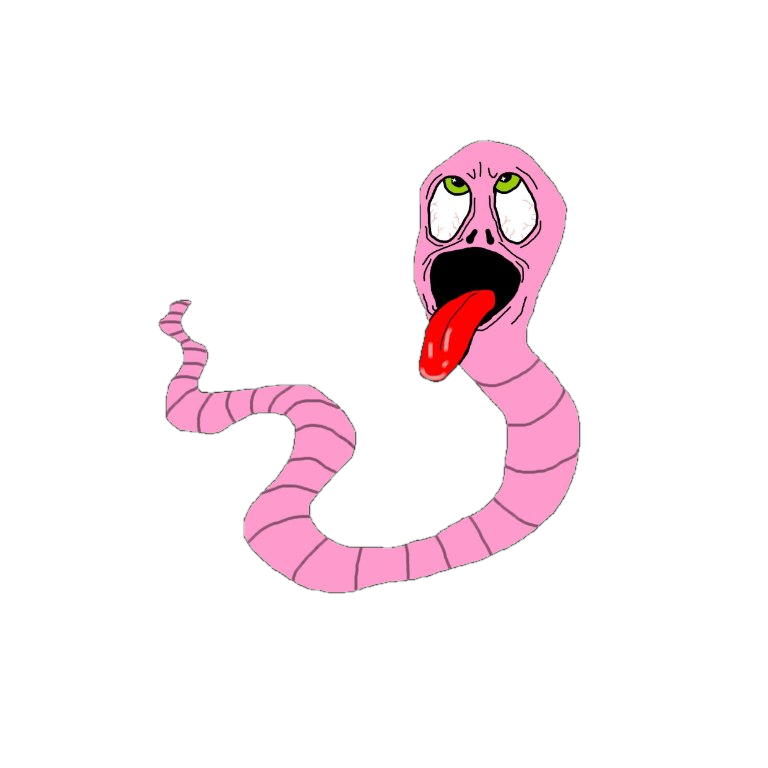
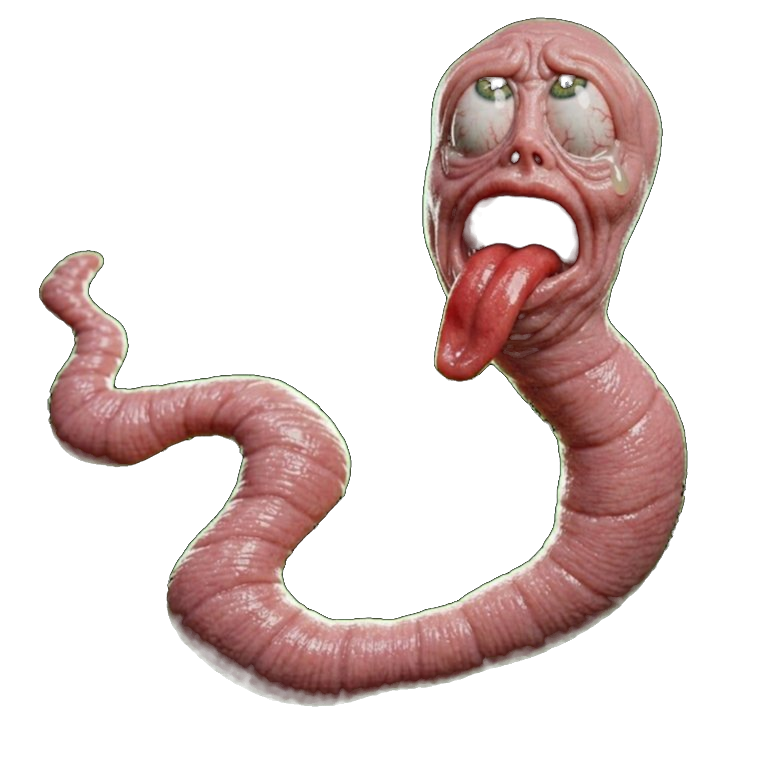
Pochette Putain de sa Race, fosse -> égout, Ver: rendu comme image et effet

diff --git a/mode-putride-discographie.html b/mode-putride-discographie.html
@@ -48,7 +48,7 @@
   <li class="al"><button class="alb" type="button" aria-expanded="false" aria-controls="ap14"><img src="images/retard-tinables/le-retour-de-la-couche.jpg" alt="Pochette Le Retour de la Couche" loading="lazy"><span class="at"><b>Le Retour de la Couche</b><span class="d">2018 · 7 titres</span></span><span class="chev" aria-hidden="true">▾</span></button><div class="apanel" id="ap14" hidden><ol class="trk"><li><span>Durs avec Christophe - Intro</span><em>1:39</em></li><li><span>Oh oui je te respecte...</span><em>4:50</em></li><li><span>Je suis mouillé...</span><em>2:51</em></li><li><span>Paycho</span><em>2:25</em></li><li><span>Musiquedebeauf.mp3 (Remix par Jean-Casimir37)</span><em>3:42</em></li><li><span>Un rêve, tout simplement.</span><em>3:34</em></li><li><span>Je m&#x27;extase sur toi...</span><em>4:08</em></li></ol><div class="acts"><button class="btn play" type="button" data-sc="https://soundcloud.com/puanteurputride/sets/le-retour-de-la-couche" data-h="380" data-t="Le Retour de la Couche">▶ ÉCOUTER</button><a class="btn" href="https://soundcloud.com/puanteurputride/sets/le-retour-de-la-couche" rel="noopener" target="_blank">SOUNDCLOUD</a></div></div></li>
   <li class="al"><button class="alb" type="button" aria-expanded="false" aria-controls="ap15"><img src="images/retard-tinables/mais-si-quest-vrai.jpg" alt="Pochette Mais si qu&#x27;est vrai" loading="lazy"><span class="at"><b>Mais si qu&#x27;est vrai</b><span class="d">2018 · single · 1 titre</span></span><span class="chev" aria-hidden="true">▾</span></button><div class="apanel" id="ap15" hidden><ol class="trk"><li><span>Ça déconne !</span><em>3:19</em></li></ol><div class="acts"><button class="btn play" type="button" data-sc="https://soundcloud.com/puanteurputride/sets/mais-si-qucest-vrai" data-h="380" data-t="Mais si qu'est vrai">▶ ÉCOUTER</button><a class="btn" href="https://soundcloud.com/puanteurputride/sets/mais-si-qucest-vrai" rel="noopener" target="_blank">SOUNDCLOUD</a></div></div></li>
   <li class="al"><button class="alb" type="button" aria-expanded="false" aria-controls="ap16"><img src="images/retard-tinables/connasse.jpg" alt="Pochette Connasse" loading="lazy"><span class="at"><b>Connasse</b><span class="d">2018 · EP · 2 titres</span></span><span class="chev" aria-hidden="true">▾</span></button><div class="apanel" id="ap16" hidden><ol class="trk"><li><span>À ma demande.</span><em>2:09</em></li><li><span>PLS by Christophe (remake de À ma demande)</span><em>1:29</em></li></ol><div class="acts"><button class="btn play" type="button" data-sc="https://soundcloud.com/puanteurputride/sets/connasse" data-h="380" data-t="Connasse">▶ ÉCOUTER</button><a class="btn" href="https://soundcloud.com/puanteurputride/sets/connasse" rel="noopener" target="_blank">SOUNDCLOUD</a></div></div></li>
-  <li class="al"><button class="alb" type="button" aria-expanded="false" aria-controls="ap17"><span class="phs">Putain de sa Race</span><span class="at"><b>Putain de sa Race</b><span class="d">2018 · single · 1 titre</span></span><span class="chev" aria-hidden="true">▾</span></button><div class="apanel" id="ap17" hidden><ol class="trk"><li><span>Putain de sa Race</span><em>1:43</em></li></ol><div class="acts"><button class="btn play" type="button" data-sc="https://soundcloud.com/puanteurputride/putain-de-sa-race-2018" data-h="166" data-t="Putain de sa Race">▶ ÉCOUTER</button><a class="btn" href="https://soundcloud.com/puanteurputride/putain-de-sa-race-2018" rel="noopener" target="_blank">SOUNDCLOUD</a></div></div></li>
+  <li class="al"><button class="alb" type="button" aria-expanded="false" aria-controls="ap17"><img class="tint" src="images/pochette-putain-de-sa-race.jpg" alt="Pochette Putain de sa Race" loading="lazy"><span class="at"><b>Putain de sa Race</b><span class="d">2018 · single · 1 titre</span></span><span class="chev" aria-hidden="true">▾</span></button><div class="apanel" id="ap17" hidden><ol class="trk"><li><span>Putain de sa Race</span><em>1:43</em></li></ol><div class="acts"><button class="btn play" type="button" data-sc="https://soundcloud.com/puanteurputride/putain-de-sa-race-2018" data-h="166" data-t="Putain de sa Race">▶ ÉCOUTER</button><a class="btn" href="https://soundcloud.com/puanteurputride/putain-de-sa-race-2018" rel="noopener" target="_blank">SOUNDCLOUD</a></div></div></li>
   <li class="al"><button class="alb" type="button" aria-expanded="false" aria-controls="ap18"><img src="images/retard-tinables/oh-non-je-fais-appel.jpg" alt="Pochette Oh non je fais appel !" loading="lazy"><span class="at"><b>Oh non je fais appel !</b><span class="d">2017 · single · 1 titre</span></span><span class="chev" aria-hidden="true">▾</span></button><div class="apanel" id="ap18" hidden><ol class="trk"><li><span>Oh non je fais appel !</span><em>3:29</em></li></ol><div class="acts"><button class="btn play" type="button" data-sc="https://soundcloud.com/puanteurputride/oh-non-je-fais-appel" data-h="166" data-t="Oh non je fais appel !">▶ ÉCOUTER</button><a class="btn" href="https://soundcloud.com/puanteurputride/oh-non-je-fais-appel" rel="noopener" target="_blank">SOUNDCLOUD</a></div></div></li>
   <li class="al"><button class="alb" type="button" aria-expanded="false" aria-controls="ap19"><img src="images/retard-tinables/oh-non-herve.jpg" alt="Pochette Oh non Hervé" loading="lazy"><span class="at"><b>Oh non Hervé</b><span class="d">2017 · 6 titres</span><span class="tags"><i class="tg c">▶ CLIP</i></span></span><span class="chev" aria-hidden="true">▾</span></button><div class="apanel" id="ap19" hidden><ol class="trk"><li><span>Camisole - Ode à Juliette</span><em>1:46</em></li><li><span>Assel est demandé.</span><em>1:32</em></li><li><span>Cachot cachot !</span><em>1:27</em></li><li><span>Ooooooh !</span><em>1:32</em></li><li><span>Camisole (Christophe Chevanne Cover)</span><em>3:20</em></li><li><span>Je suis le juge.</span><em>3:06</em></li></ol><div class="acts"><button class="btn play" type="button" data-sc="https://soundcloud.com/puanteurputride/sets/oh-non-herve" data-h="380" data-t="Oh non Hervé">▶ ÉCOUTER</button><a class="btn" href="https://soundcloud.com/puanteurputride/sets/oh-non-herve" rel="noopener" target="_blank">SOUNDCLOUD</a><button class="btn yt" type="button" data-yt="CEokRJYAFE4" data-t="Album Oh non Hervé en entier">▶ ALBUM EN VIDÉO · 12:44</button></div></div></li>
   <li class="al"><button class="alb" type="button" aria-expanded="false" aria-controls="ap20"><img src="images/retard-tinables/mets-la-cam.jpg" alt="Pochette Mets la cam" loading="lazy"><span class="at"><b>Mets la cam</b><span class="d">2017 · 5 titres</span></span><span class="chev" aria-hidden="true">▾</span></button><div class="apanel" id="ap20" hidden><ol class="trk"><li><span>J&#x27;te connais pas hein</span><em>1:13</em></li><li><span>Bah mets la cam Hervé !</span><em>1:58</em></li><li><span>Testicule</span><em>4:10</em></li><li><span>Jean-Marie tu déconnes là ?</span><em>1:54</em></li><li><span>J&#x27;me suis mis trop bien !</span><em>2:32</em></li></ol><div class="acts"><button class="btn play" type="button" data-sc="https://soundcloud.com/puanteurputride/sets/mets-la-cam" data-h="380" data-t="Mets la cam">▶ ÉCOUTER</button><a class="btn" href="https://soundcloud.com/puanteurputride/sets/mets-la-cam" rel="noopener" target="_blank">SOUNDCLOUD</a></div></div></li>

diff --git a/mode-putride-bestiaire.html b/mode-putride-bestiaire.html
@@ -30,14 +30,14 @@
 <main>
 <p class="kicker">MODE PUTRIDE · BESTIAIRE</p>
   <h1>Bestiaire</h1>
-  <p>Personnages, figures et incarnations de la fosse.</p>
+  <p>Personnages, figures et incarnations de l'égout.</p>
   <ul class="perso">
     <li><a href="mode-putride-personnage-createur.html"><span class="pf fx fx-cre" tabindex="0" role="img" aria-label="La Créature du Marais"><img class="bgz vio" src="images/creature.jpg" alt="" loading="lazy"><img class="aur" src="images/putride/creature-aura.png" alt="" loading="lazy"><img class="fgz vio" src="images/putride/creature-decoupe.png" alt="" loading="lazy"></span><b>La Créature</b></a></li>
     <li><a href="mode-putride-personnage-edwarda.html"><span class="pf fx fx-edw" tabindex="0" role="img" aria-label="Madame Edwarda"><img class="bgz" src="images/putride/madame-edwarda.jpg" alt="" loading="lazy"><img class="fgz" src="images/putride/madame-edwarda.jpg" alt="" loading="lazy"><i class="fxl"></i><i class="em" style="left:20%;--dx:1.2rem;animation-delay:-0.37s"></i><i class="em" style="left:32%;--dx:-1.8rem;animation-delay:-0.74s"></i><i class="em" style="left:44%;--dx:0.6rem;animation-delay:-1.11s"></i><i class="em" style="left:56%;--dx:-1.2rem;animation-delay:-1.48s"></i><i class="em" style="left:68%;--dx:1.8rem;animation-delay:-1.85s"></i><i class="em" style="left:80%;--dx:-0.6rem;animation-delay:-2.22s"></i><i class="em" style="left:92%;--dx:1.2rem;animation-delay:-2.59s"></i></span><b>Madame Edwarda</b></a></li>
     <li><a href="mode-putride-personnage-ephebus.html"><span class="pf eph"><span class="halo"></span><span class="stage"><img class="wing wl" src="images/putride/ephebus-aile-g.png" alt=""><img class="wing wr" src="images/putride/ephebus-aile-d.png" alt=""><img class="body" src="images/putride/ephebus-corps.png" alt="Éphébus Hitler"><span class="sheen"></span><i class="eye e1"></i><i class="eye e2"></i></span></span><b>Éphébus Hitler</b></a></li>
     <li><a href="mode-putride-personnage-ephebelle.html"><span class="pf fx fx-ebl" tabindex="0" role="img" aria-label="Éphébelle"><img class="bgz" src="images/putride/ephebelle-profil.jpg" alt="" loading="lazy"><i class="hr" style="--x:31.3%;--s:1.35rem;--c:#ff7aa8;--d:3.1s;--w:-0.29s;--dx:1.8rem;--r:20deg">&#9829;</i><i class="hr" style="--x:36.6%;--s:1.8rem;--c:#e01040;--d:3.6s;--w:-0.58s;--dx:-2.8rem;--r:-28deg">&#9829;</i><i class="hr" style="--x:41.9%;--s:2.25rem;--c:#ff9ec0;--d:2.6s;--w:-0.87s;--dx:3.8rem;--r:12deg">&#9829;</i><i class="hr" style="--x:47.2%;--s:0.9rem;--c:#ff4d6d;--d:3.1s;--w:-1.16s;--dx:-0.8rem;--r:-20deg">&#9829;</i><i class="hr" style="--x:52.5%;--s:1.35rem;--c:#ff2a55;--d:3.6s;--w:-1.45s;--dx:1.8rem;--r:28deg">&#9829;</i><i class="hr" style="--x:57.8%;--s:1.8rem;--c:#ff7aa8;--d:2.6s;--w:-1.74s;--dx:-2.8rem;--r:-12deg">&#9829;</i><i class="hr" style="--x:63.1%;--s:2.25rem;--c:#e01040;--d:3.1s;--w:-2.03s;--dx:3.8rem;--r:20deg">&#9829;</i><i class="hr" style="--x:68.4%;--s:0.9rem;--c:#ff9ec0;--d:3.6s;--w:-2.32s;--dx:-0.8rem;--r:-28deg">&#9829;</i><i class="hr" style="--x:29.7%;--s:1.35rem;--c:#ff4d6d;--d:2.6s;--w:-2.61s;--dx:1.8rem;--r:12deg">&#9829;</i><i class="hr" style="--x:35%;--s:1.8rem;--c:#ff2a55;--d:3.1s;--w:-2.9s;--dx:-2.8rem;--r:-20deg">&#9829;</i><i class="hr" style="--x:40.3%;--s:2.25rem;--c:#ff7aa8;--d:3.6s;--w:-3.19s;--dx:3.8rem;--r:28deg">&#9829;</i><img class="fgz" src="images/putride/ephebelle-profil.jpg" alt="" loading="lazy"></span><b>Éphébelle</b></a></li>
     <li><a href="mode-putride-personnage-ephebito.html"><span class="pf fx fx-ito" tabindex="0" role="img" aria-label="Éphébito"><span class="stg"><img src="images/putride/ephebito.jpg" alt="" loading="lazy"></span></span><b>Éphébito</b></a></li>
-    <li><a href="mode-putride-personnage-ver.html"><span class="pf fx fx-ver" tabindex="0" role="img" aria-label="Le Ver du baptistère"><span class="stg"><img src="images/putride/ver-panneau.jpg" alt="" loading="lazy"><img class="aur" src="images/putride/ver-aura.png" alt="" loading="lazy"><img class="cut" src="images/putride/ver-decoupe.png" alt="" loading="lazy"><i class="gout"></i><i class="splat"></i></span></span><b>Le Ver du baptistère</b></a></li>
+    <li><a href="mode-putride-personnage-ver.html"><span class="pf fx fx-ver" tabindex="0" role="img" aria-label="Le Ver du baptistère"><span class="stg"><img class="aur" src="images/putride/ver-aura.png" alt="" loading="lazy"><img class="cut" src="images/putride/ver-decoupe.png" alt="" loading="lazy"><i class="gout"></i><i class="splat"></i></span></span><b>Le Ver du baptistère</b></a></li>
   </ul>
 </main>
 <footer class="pfoot"><img alt="La Créature du Marais — Cul-Pointu" class="sf-t" src="images/pied-titre.png"><p class="sf-c">© MMXXVI</p><a class="pup" href="index.html" data-slime="up" aria-label="Remonter à la surface : retour au site normal"><svg viewBox="0 0 64 64" aria-hidden="true"><rect x="8" y="10" width="48" height="44"/><path d="M8 32h48M32 10v44"/><circle cx="26" cy="32" r="2"/><circle cx="38" cy="32" r="2"/></svg><span>↑ REMONTER À LA SURFACE</span></a></footer>

diff --git a/putride.css b/putride.css
@@ -347,13 +347,13 @@ main{position:relative}
 @keyframes heart{0%{transform:translate(0,0) scale(.3) rotate(0);opacity:0}12%{opacity:.95}100%{transform:translate(var(--dx),-14rem) scale(1.1) rotate(var(--r));opacity:0}}
 
 /* Le Ver : goutte qui s'écrase, zoom lent */
-.fx-ver .stg{position:absolute;inset:0;transform-origin:56% 47%;transition:transform 9s cubic-bezier(.25,.1,.3,1)}
+.fx-ver .stg{position:absolute;inset:0;transform-origin:60% 46%;transition:transform 9s cubic-bezier(.25,.1,.3,1)}
 :is(.fx:hover,.fx.on,.fx:focus-visible,.perso a:hover .fx,.perso a:focus-visible .fx,.perso a:active .fx).fx-ver .stg{transform:scale(2)}
-.fx-ver .gout{position:absolute;left:56.4%;top:48.5%;width:2.4%;aspect-ratio:1/1.35;border-radius:50% 50% 50% 50%/35% 35% 65% 65%;background:radial-gradient(circle at 35% 30%,#d4f58a,#6fc230 55%,#2c7a1c);box-shadow:0 0 .2rem rgba(10,46,14,.8);transform:translate(-50%,0) scale(0);transform-origin:50% 0;opacity:0}
-.fx-ver .splat{position:absolute;left:56.4%;top:76%;width:8%;aspect-ratio:2.2/1;border-radius:50%;background:radial-gradient(ellipse,#8fe04a 0 40%,#3e9a22 62%,transparent 70%);transform:translate(-50%,-50%) scale(0);opacity:0}
+.fx-ver .gout{position:absolute;left:59.3%;top:49%;width:2.4%;aspect-ratio:1/1.35;border-radius:50% 50% 50% 50%/35% 35% 65% 65%;background:radial-gradient(circle at 35% 30%,#d4f58a,#6fc230 55%,#2c7a1c);box-shadow:0 0 .2rem rgba(10,46,14,.8);transform:translate(-50%,0) scale(0);transform-origin:50% 0;opacity:0}
+.fx-ver .splat{position:absolute;left:59.3%;top:86%;width:8%;aspect-ratio:2.2/1;border-radius:50%;background:radial-gradient(ellipse,#8fe04a 0 40%,#3e9a22 62%,transparent 70%);transform:translate(-50%,-50%) scale(0);opacity:0}
 :is(.fx:hover,.fx.on,.fx:focus-visible,.perso a:hover .fx,.perso a:focus-visible .fx,.perso a:active .fx).fx-ver .gout{animation:dgo 3.4s ease-in infinite}
 :is(.fx:hover,.fx.on,.fx:focus-visible,.perso a:hover .fx,.perso a:focus-visible .fx,.perso a:active .fx).fx-ver .splat{animation:dsp 3.4s ease-out infinite}
-@keyframes dgo{0%{top:48.5%;opacity:1;transform:translate(-50%,0) scale(.1)}22%{top:48.8%;transform:translate(-50%,0) scale(1,1.1)}38%{top:50%;transform:translate(-50%,0) scale(.95,1.7)}68%{top:75%;opacity:1;transform:translate(-50%,0) scale(.8,1.5)}70%,100%{top:76%;opacity:0;transform:translate(-50%,0) scale(.5)}}
+@keyframes dgo{0%{top:49%;opacity:1;transform:translate(-50%,0) scale(.1)}22%{top:49.3%;transform:translate(-50%,0) scale(1,1.1)}38%{top:51%;transform:translate(-50%,0) scale(.95,1.7)}68%{top:85%;opacity:1;transform:translate(-50%,0) scale(.8,1.5)}70%,100%{top:86%;opacity:0;transform:translate(-50%,0) scale(.5)}}
 @keyframes dsp{0%,67%{opacity:0;transform:translate(-50%,-50%) scale(0)}70%{opacity:1;transform:translate(-50%,-50%) scale(.4)}90%{opacity:.85;transform:translate(-50%,-50%) scale(1.5,.8)}100%{opacity:0;transform:translate(-50%,-50%) scale(1.9,.8)}}
 
 /* Éphébito : pendule */
@@ -363,7 +363,7 @@ main{position:relative}
 .fx-ver{cursor:default}.fx-ito{cursor:default}
 .fx-ver .stg img,.fx-ito .stg img{object-fit:contain}
 .fx-ver .stg img{position:absolute;inset:0;width:100%;height:100%}
-.fx-ver .aur{object-fit:contain;transform:none;clip-path:inset(14.5% 0 18% 0)}
+.fx-ver .aur{object-fit:contain;transform:none}
 :is(.fx:hover,.fx.on,.fx:focus-visible,.perso a:hover .fx,.perso a:focus-visible .fx,.perso a:active .fx).fx-ver .aur{opacity:1;animation:vaura 3.6s ease-in-out infinite}
 @keyframes vaura{0%,100%{opacity:.85}50%{opacity:1}}
 

diff --git a/mode-putride.html b/mode-putride.html
@@ -29,7 +29,7 @@
 
 <main>
 <p class="kicker">MODE PUTRIDE</p>
-  <h1>Sous le pavé, la fosse</h1>
+  <h1>Sous le pavé, l'égout</h1>
   <p class="lead-title">La Créature du Marais</p>
   <p>Personne ne vous a poussé : la trappe était là, vous avez appuyé. Les rubriques d'en haut ont ici leur double, moins fréquentable. Respirez par la bouche, touchez à tout, et quand l'odeur deviendra trop forte, l'échelle est juste dessous.</p>
   <p><a class="btn" href="index.html" id="up" data-slime="up">↑ REMONTER À LA SURFACE</a></p>
@@ -46,9 +46,9 @@
   <p>Proposition : une <b>trappe</b> dans le pied de page du site propre, à côté du © MMXXVI. Un seul geste, sans menu ni réglage. Essaie-la ci-dessous (simulation).</p>
   <div class="mockfoot">
     <span>© MMXXVI · La Créature du Marais — Cul-Pointu</span>
-    <button class="trap" id="trap" type="button" aria-label="Entrer dans la fosse : activer le mode putride">
+    <button class="trap" id="trap" type="button" aria-label="Entrer dans l'égout : activer le mode putride">
       <svg viewBox="0 0 64 64" aria-hidden="true"><rect x="8" y="10" width="48" height="44"/><path d="M8 32h48M32 10v44"/><circle cx="26" cy="32" r="2"/><circle cx="38" cy="32" r="2"/></svg>
-      <span>ENTRER DANS LA FOSSE</span>
+      <span>ENTRER DANS L'ÉGOUT</span>
     </button>
   </div>
   <p class="note">À l'activation : une coulée de slime vert, avec quelques surprises brunes, balaie l'écran de haut en bas, puis les couleurs, l'en-tête et le bandeau basculent. Le choix serait mémorisé (localStorage), et « ↑ Remonter à la surface » ramène au site propre par la coulée inverse.</p>

diff --git a/mode-putride-personnage-createur.html b/mode-putride-personnage-createur.html
@@ -33,7 +33,7 @@
   <div class="fiche2"><div><span class="pf fx fx-cre" tabindex="0" role="img" aria-label="La Créature du Marais en long manteau noir, lunettes rondes et lance"><img class="bgz vio" src="images/creature.jpg" alt="" loading="lazy"><img class="aur" src="images/putride/creature-aura.png" alt="" loading="lazy"><img class="fgz vio" src="images/putride/creature-decoupe.png" alt="" loading="lazy"></span></div><div>
   <h1>La Créature du Marais</h1>
   <p class="role">TANCRÈDE CHARON · CUL-POINTU · ROUEN</p>
-  <p>Chanteur, compositeur et metteur en scène de ses propres clips, il officie sous la bannière de PUANTEUR PUTRIDE Productions. À la surface, le rouge de la veste côtelée ; ici, la fosse l'a teinté de violet et le fluide vert le ronge de l'intérieur.</p>
+  <p>Chanteur, compositeur et metteur en scène de ses propres clips, il officie sous la bannière de PUANTEUR PUTRIDE Productions. À la surface, le rouge de la veste côtelée ; ici, l'égout l'a teinté de violet et le fluide vert le ronge de l'intérieur.</p>
   <p>Son genre officiel : l'<b>opéra gothique électronique catholique traditionnel</b>, carnavalesque et grotesque, sur un Moyen Âge 2 dont le brun est la couleur de prédilection.</p>
   <dl>
     <dt>ATTRIBUTS</dt><dd>velours noir de la tête aux panards, cape noire, canne-épée, lunettes rondes noires, micro, synthétiseur Korg Modwave, armes médiévales, lait cru et odeur pestilentielle</dd>

diff --git a/mode-putride-personnage-ver.html b/mode-putride-personnage-ver.html
@@ -30,7 +30,7 @@
 <main>
 <p class="kicker">MODE PUTRIDE · BESTIAIRE</p>
   <p class="back"><a class="btn" href="mode-putride-bestiaire.html">← BESTIAIRE</a></p>
-  <div class="fiche2"><div><span class="pf fx fx-ver" tabindex="0" role="img" aria-label="Panneau : Prenez garde au ver du baptistère"><span class="stg"><img src="images/putride/ver-panneau.jpg" alt="" loading="lazy"><img class="aur" src="images/putride/ver-aura.png" alt="" loading="lazy"><img class="cut" src="images/putride/ver-decoupe.png" alt="" loading="lazy"><i class="gout"></i><i class="splat"></i></span></span></div><div>
+  <div class="fiche2"><div><span class="pf fx fx-ver" tabindex="0" role="img" aria-label="Le ver du baptistère, en rendu"><span class="stg"><img class="aur" src="images/putride/ver-aura.png" alt="" loading="lazy"><img class="cut" src="images/putride/ver-decoupe.png" alt="" loading="lazy"><i class="gout"></i><i class="splat"></i></span></span></div><div>
   <h1>Le Ver du baptistère</h1>
   <p class="role">PRENEZ GARDE</p>
   <p>Il y a un réseau de baptistères et le ver en est maître. Il se repaît de snuff movies scato et hante le <a class="lk" href="mode-putride-territoire.html#vampirium">Vampirium</a>.</p>

diff --git a/putride.js b/putride.js
@@ -68,7 +68,7 @@
   }
   function mkbar(){
     if(pb)return;
-    pb=document.createElement('div');pb.id='pbar';pb.setAttribute('role','region');pb.setAttribute('aria-label','Lecteur de la fosse');
+    pb=document.createElement('div');pb.id='pbar';pb.setAttribute('role','region');pb.setAttribute('aria-label','Lecteur de l'égout');
     pb.innerHTML='<div class="pb-drip" aria-hidden="true"></div>'
       +'<div class="pb-main">'
       +'<img class="pb-art" alt="" width="56" height="56">'
@@ -334,7 +334,7 @@
       o.textContent='';
       if(v.length<2){o.classList.remove('on');return;}
       var R=find(v);
-      if(!R.length){var n=document.createElement('div');n.className='sn';n.textContent='Rien dans la fosse';o.appendChild(n);}
+      if(!R.length){var n=document.createElement('div');n.className='sn';n.textContent='Rien dans l'égout';o.appendChild(n);}
       R.forEach(function(r){
         var a=document.createElement('a');a.href=r.h;var b=document.createElement('b');b.textContent=r.t;a.appendChild(b);
         var s=r.sn?(r.k?r.k+' — ':'')+r.sn:r.k;

diff --git a/index.html b/index.html
@@ -926,7 +926,7 @@ mp.addEventListener("keydown",function(e){if(e.key==="Escape"){closeM();sb.focus
 <footer class="sf">
 <img alt="La Créature du Marais — Cul-Pointu" class="sf-t" src="images/pied-titre.png"/>
 <p class="sf-c">© MMXXVI</p>
-<a class="sf-trap" href="mode-putride.html" data-slime="down" aria-label="Entrer dans la fosse : mode putride"><svg viewBox="0 0 64 64" aria-hidden="true"><rect x="8" y="10" width="48" height="44"/><path d="M8 32h48M32 10v44"/><circle cx="26" cy="32" r="2"/><circle cx="38" cy="32" r="2"/></svg><span>ENTRER DANS LA FOSSE</span></a>
+<a class="sf-trap" href="mode-putride.html" data-slime="down" aria-label="Entrer dans l'égout : mode putride"><svg viewBox="0 0 64 64" aria-hidden="true"><rect x="8" y="10" width="48" height="44"/><path d="M8 32h48M32 10v44"/><circle cx="26" cy="32" r="2"/><circle cx="38" cy="32" r="2"/></svg><span>ENTRER DANS L'ÉGOUT</span></a>
 </footer>
 <script>
 (function(){
